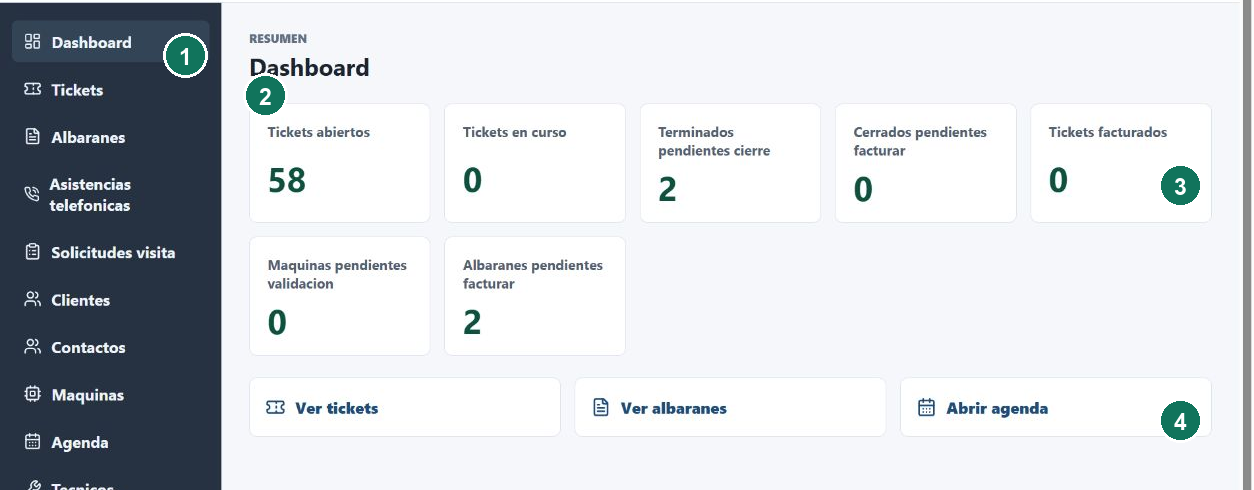
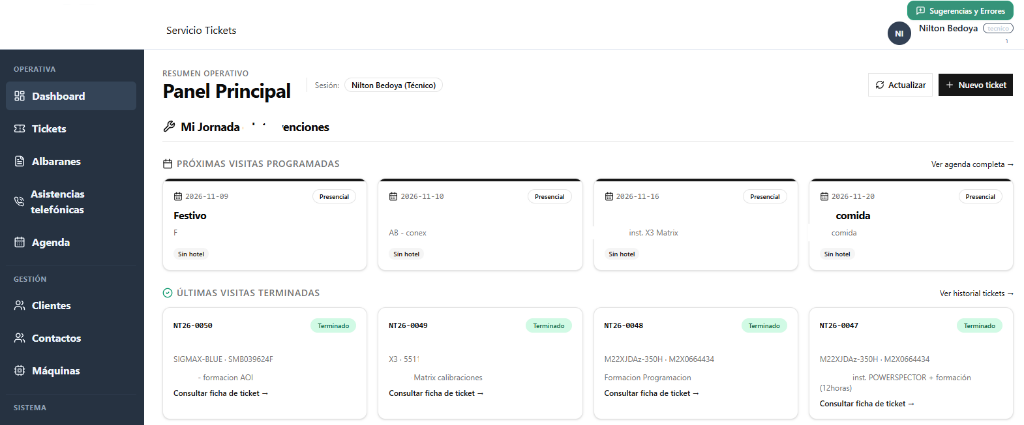
feat(software): integrate Interstellar AI translation screenshot and updated tickets dashboard

diff --git a/web/src/js/i18n.js b/web/src/js/i18n.js
@@ -181,6 +181,8 @@
       "soft.case.logistics.title": "Control Log\u00edstico &amp; Packing List",
       "soft.case.logistics.desc": "Conteo y trazabilidad automatizada de ruedas, asignaci\u00f3n de contenedores y generaci\u00f3n de Packing List de exportaci\u00f3n internacional (PDF/Excel) \u2014 caso Corea.",
       "soft.case.translation.title": "Traducci\u00f3n &amp; Transcripci\u00f3n Simult\u00e1nea",
+      "soft.badge.translation.main": "Interstellar AI",
+      "soft.badge.translation.sub": "Traducci\u00f3n en Vivo &bull; Fidelidad 88/100",
       "soft.case.translation.desc": "Pipeline de procesamiento en tiempo real de baja latencia para eventos t\u00e9cnicos. Demostraci\u00f3n en video con audio pregrabado sincronizado y m\u00e9tricas de latencia.",
       "soft.badge.cardio.main": "CardioNutri IoT",
       "soft.badge.cardio.sub": "Telemetr\u00eda Cl\u00ednica &bull; React Native",
@@ -365,6 +367,8 @@
       "soft.case.logistics.title": "Logistics Control &amp; Export Packing List",
       "soft.case.logistics.desc": "Automated wheel counting and traceability, container allocation, and international export Packing List generation (PDF/Excel) \u2014 Korea case study.",
       "soft.case.translation.title": "Simultaneous Translation &amp; Transcription Engine",
+      "soft.badge.translation.main": "Interstellar AI",
+      "soft.badge.translation.sub": "Live Translation &bull; 88/100 Fidelity",
       "soft.case.translation.desc": "Low-latency real-time processing pipeline for technical conferences. Video demonstration with synchronized pre-recorded audio and latency metrics.",
       "soft.badge.cardio.main": "CardioNutri IoT",
       "soft.badge.cardio.sub": "Clinical Telemetry &bull; React Native",

diff --git a/web/public/pages/software-engineering.html b/web/public/pages/software-engineering.html
@@ -112,6 +112,13 @@
       </div>
 
       <div class="card-soft fade-in" style="animation-delay: 0.3s;">
+        <div class="photo-frame">
+          <img src="/static/assets/projects/translation-interstellar-ai.jpg" alt="Traductor Simult&aacute;neo Interstellar Edition con Depuraci&oacute;n AI">
+          <div class="photo-badge">
+            <span class="photo-badge-cyan" data-i18n="soft.badge.translation.main">Interstellar AI</span>
+            <span class="photo-badge-sub" data-i18n-html="true" data-i18n="soft.badge.translation.sub">Traducci&oacute;n en Vivo &bull; Fidelidad 88/100</span>
+          </div>
+        </div>
         <div>
           <span class="code-tag">cs-translation</span>
           <h3 data-i18n-html="true" data-i18n="soft.case.translation.title">Traducci&oacute;n &amp; Transcripci&oacute;n Simult&aacute;nea</h3>
